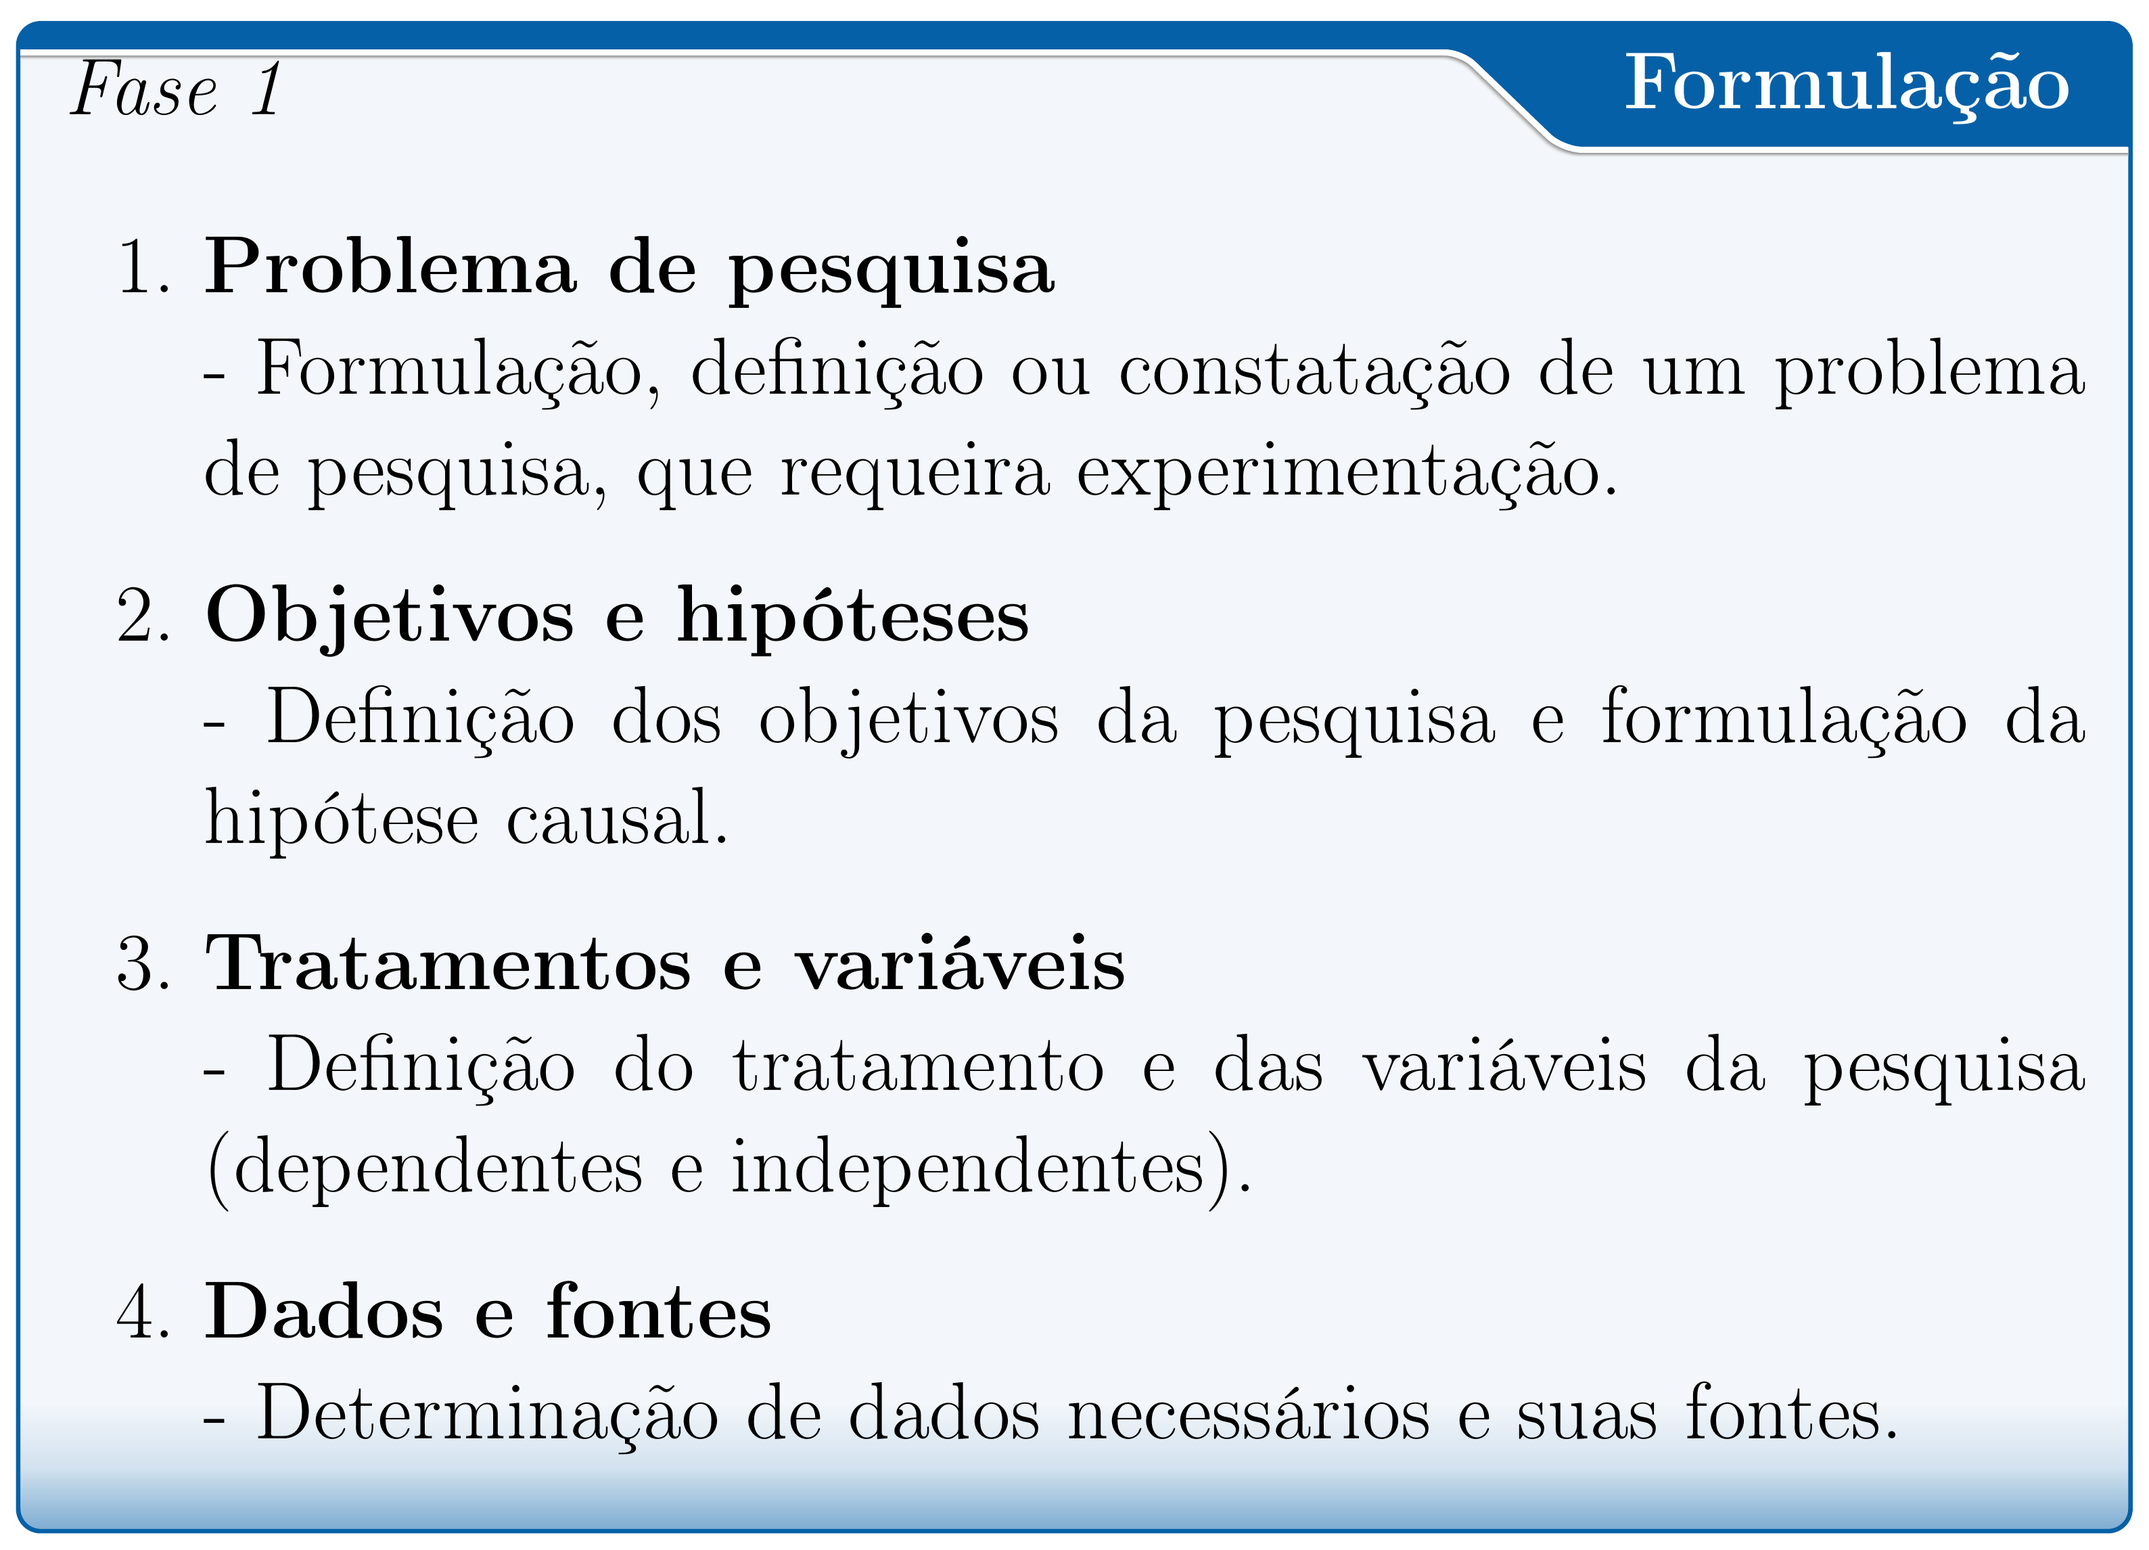
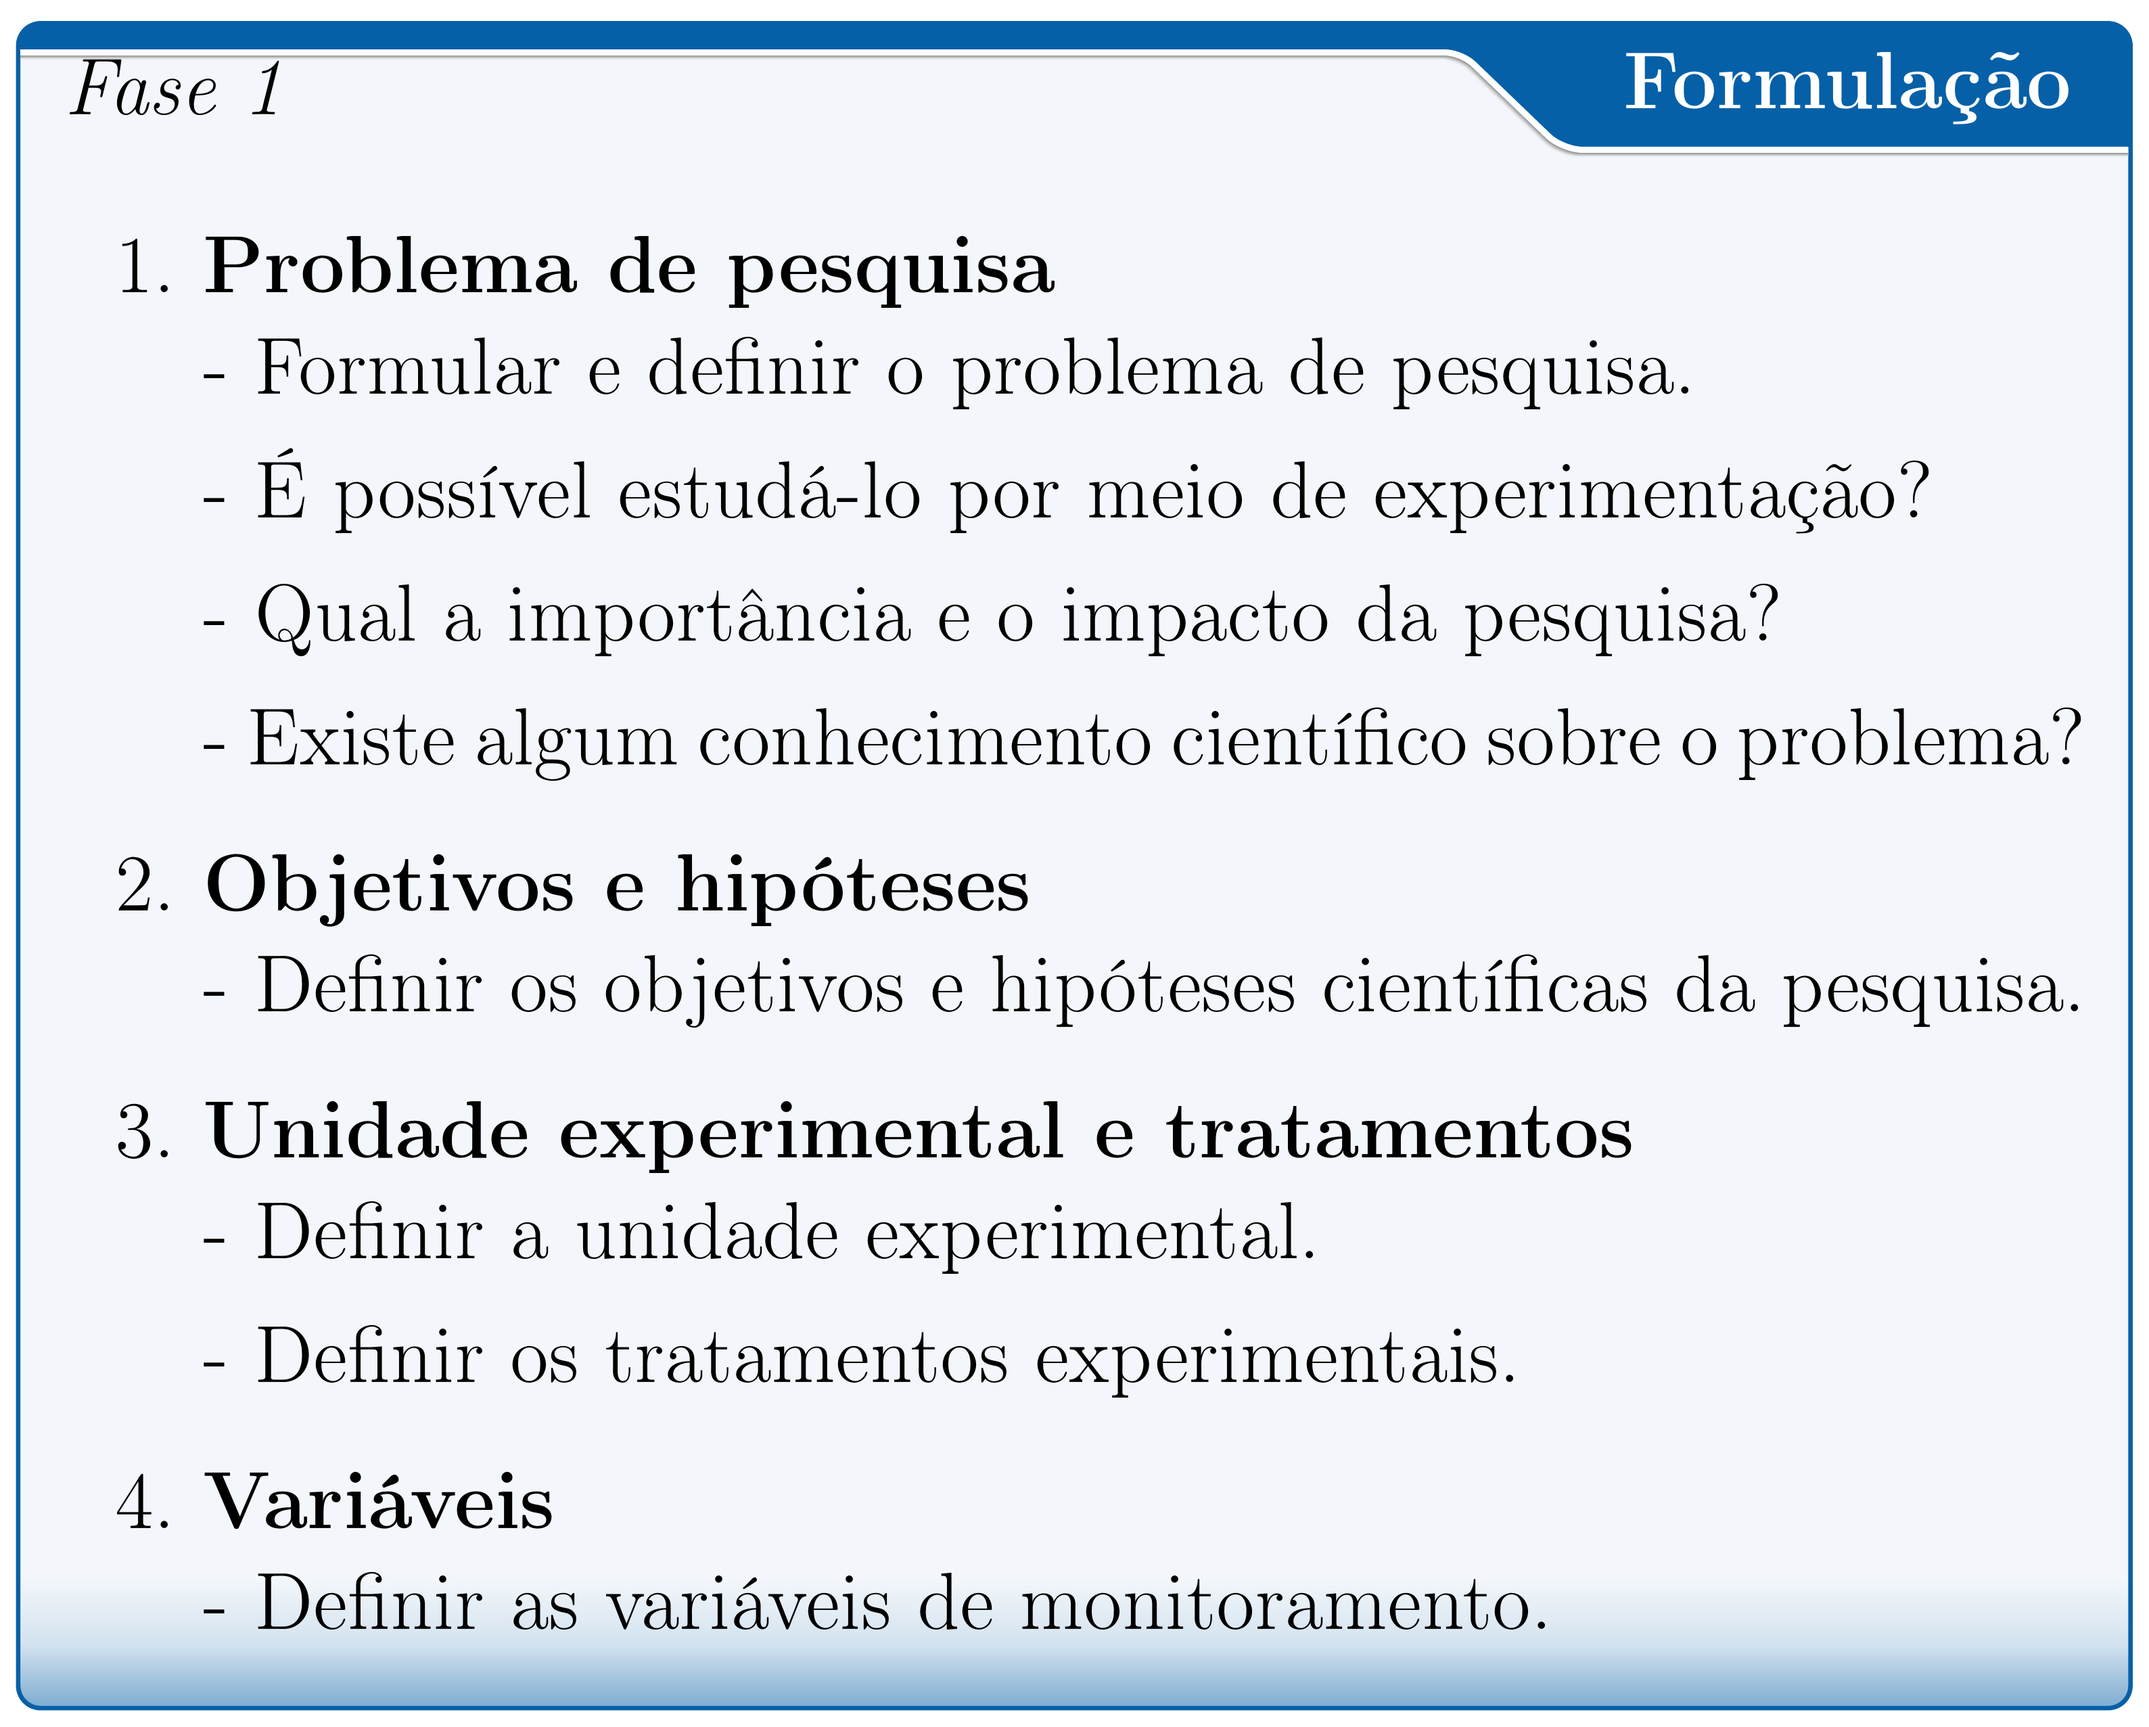
Update class 1

diff --git a/Slides/Aula1-Conceitos-Principios-Planejamento.html b/Slides/Aula1-Conceitos-Principios-Planejamento.html
@@ -81,7 +81,7 @@ top:.8em;right:-.5em;
 #### Faculdade de Engenharia Florestal
 #### E-mail: deivisonvs@ufpa.br
 &lt;br&gt;
-##### 01/julho/2021
+##### 02/julho/2021
 ##### Altamira, Pará
 
 ---
@@ -95,7 +95,7 @@ layout: true
 
 .shadow3[
 &lt;br&gt;
-1 - Introdução à experimentação: terminologias e conceitos básicos; 
+1 - Introdução à experimentação; 
 
 2 - Princípios básicos da experimentação; 
 
@@ -545,14 +545,63 @@ Fonte: [pt.wikipedia.org](https://pt.wikipedia.org/wiki/Experimenta%C3%A7%C3%A3o
 ## Fases de um experimento
 &lt;br&gt;
 
-&lt;img src="fig/class1/F1.png" width="60%" style="display: block; margin: auto;" /&gt;
+.pull-left-4[
+&lt;img src="fig/class1/F1.png" width="90%" style="display: block; margin: auto;" /&gt;
+]
+
+--
+
+.font80[
+**Problema**
+
+-&gt; Pergunta: Qual o melhor substrato para germinação de sementes de *Cordia glabrata* (Louro-preto)?
+
+-&gt; Importância: Ornamentação, prática apícola e medicina popular.
+]
+
+--
+
+.font80[
+**Objetivo**
+
+-&gt; Avaliar o melhor substrato para germinação de sementes de *Cordia glabrata* (Louro-preto)?
+]
+
+--
+
+.font80[
+**Unidade Experimental e Tratamentos**
+
+-&gt; UE: Sementes de *Cordia glabrata*.
+
+-&gt; Tratamentos: papel-filtro e solo arenoso + matéria orgânica.
+
+]
+
+--
+.font80[
+**Variáveis**
+
+-&gt; Taxa média de germinação e o Índice de Velocidade de Germinação (IVG).
+
+]
 
 ---
 
 ## Fases de um experimento
 &lt;br&gt;
 
-&lt;img src="fig/class1/F2.png" width="60%" style="display: block; margin: auto;" /&gt;
+.pull-left-4[
+&lt;img src="fig/class1/F2.png" width="90%" style="display: block; margin: auto auto auto 0;" /&gt;
+]
+
+
+--
+TTTTTTTTTTTTTTT
+
+--
+XXXXXXXXXXXXXx
+
 
 ---
 ## Referências

diff --git a/Slides/assets/slide-title/sydney-title.css b/Slides/assets/slide-title/sydney-title.css
@@ -474,6 +474,10 @@ slides > slide {
   font-size: 80%;
 }
 
+.font30 {
+  font-size: 30%;
+}
+
 
 /*~~~~~~~~~~~~~~~~*/
 /* USYD additions */
@@ -600,7 +604,7 @@ h2 {
 
 /* H5 fonts */
 .title-slide h5 {
-  color: black !important;
+  color: white !important;
   font-size: 15px;
   font-weight: bold;
   padding-top: 0px;
